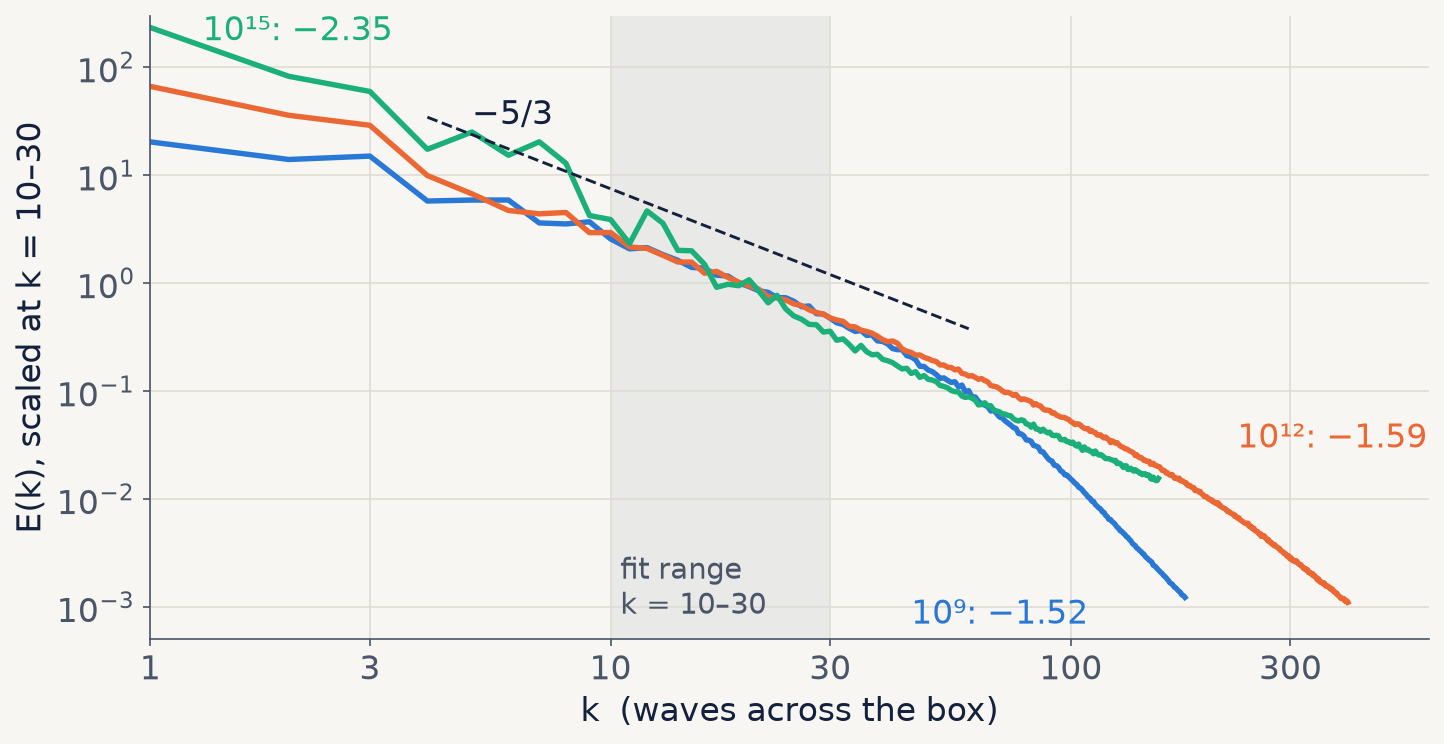
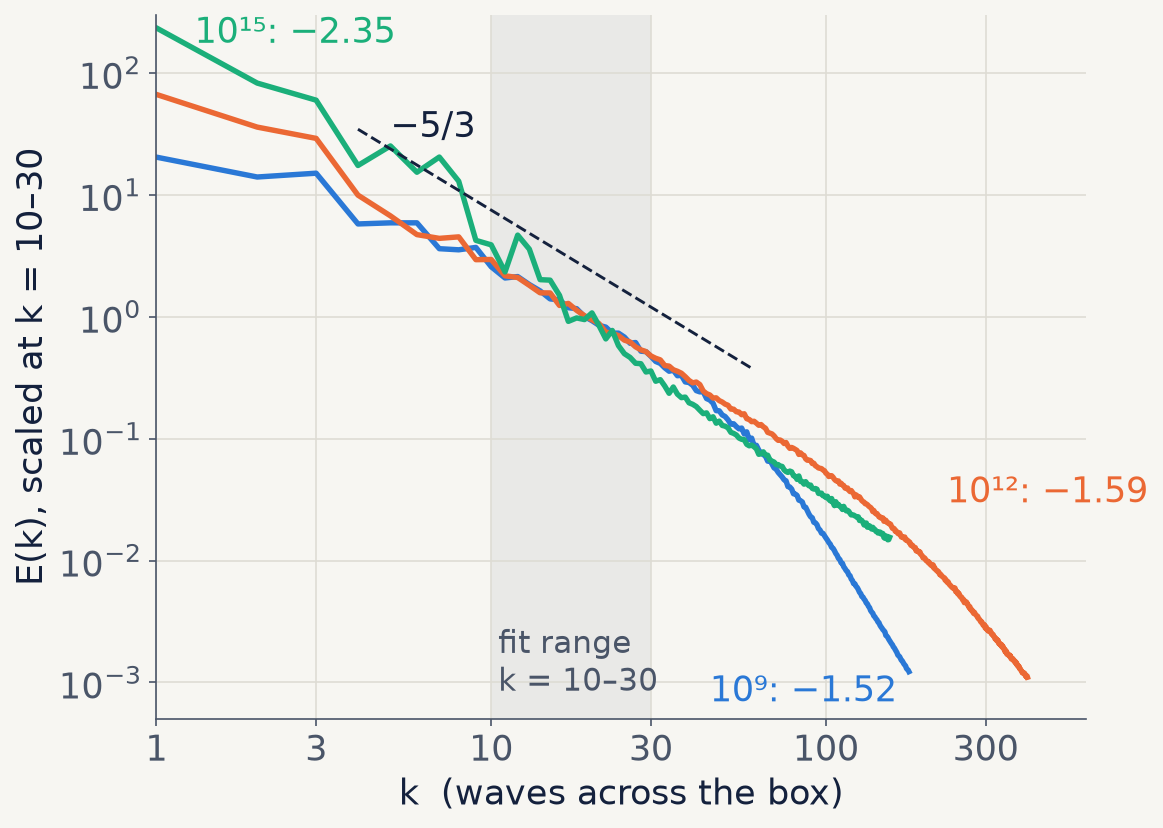
Deck figures: LaTeX equations, taller figures, proper subscripts
Claude-Session: https://claude.ai/code/session_01JtE56N5UP9hCyapB7Ratd6

diff --git a/convection/figures/make_deck_figs.py b/convection/figures/make_deck_figs.py
@@ -21,7 +21,7 @@ COL = {"Ra1e9": "#2a78d6", "Ra1e12": "#eb6834", "Ra1e15": "#1baf7a"}
 LAB = {"Ra1e9": "Ra 10⁹", "Ra1e12": "Ra 10¹²", "Ra1e15": "Ra 10¹⁵"}
 TAGS = ("Ra1e9", "Ra1e12", "Ra1e15")
 OUT = f"{FIGS}/"
-plt.rcParams.update({"font.size": 16, "axes.edgecolor": INK2, "axes.labelcolor": INK, "xtick.color": INK2,
+plt.rcParams.update({"font.size": 17, "axes.edgecolor": INK2, "axes.labelcolor": INK, "xtick.color": INK2,
                      "ytick.color": INK2, "axes.grid": True, "grid.color": GRID, "grid.linewidth": 0.8,
                      "axes.spines.top": False, "axes.spines.right": False, "lines.linewidth": 2.6,
                      "figure.facecolor": BG, "axes.facecolor": BG, "savefig.facecolor": BG, "savefig.bbox": "tight"})
@@ -38,7 +38,7 @@ def log_ticks(ax, xs=None, ys=None):
 
 def spec1d():
     """1D x-FFT, mean over rows and frames (same data and fit as FINAL_RESULTS section 1)."""
-    fig, a = plt.subplots(figsize=(11, 5.4))
+    fig, a = plt.subplots(figsize=(8, 6.1))
     floor = {"Ra1e9": 177, "Ra1e12": 873, "Ra1e15": 155}
     a.axvspan(10, 30, color=INK, alpha=0.06, lw=0)
     for t in TAGS:
@@ -48,11 +48,11 @@ def spec1d():
         a.loglog(k[m], En[m], color=COL[t])
         print(f"1D {t}: slope k=10-30 {slope(E, 10, 30):+.3f}")
     kk = np.array([4, 60.0]); a.loglog(kk, 3 * (kk / 17.3) ** (-5 / 3), color=INK, lw=1.4, ls="--")
-    a.text(5, 3 * (5 / 17.3) ** (-5 / 3) * 1.25, "−5/3", color=INK, fontsize=16)
-    a.text(10.5, 1e-3 * 0.7, "fit range\nk = 10–30", color=INK2, fontsize=14, va="bottom")
-    a.text(45, 7e-4, "10⁹: −1.52", color=COL["Ra1e9"], fontsize=16, ha="left")
-    a.text(230, 3e-2, "10¹²: −1.59", color=COL["Ra1e12"], fontsize=16, ha="left")
-    a.text(1.3, 150, "10¹⁵: −2.35", color=COL["Ra1e15"], fontsize=16, ha="left", va="bottom")
+    a.text(5, 3 * (5 / 17.3) ** (-5 / 3) * 1.25, "−5/3", color=INK, fontsize=17)
+    a.text(10.5, 1e-3 * 0.7, "fit range\nk = 10–30", color=INK2, fontsize=15, va="bottom")
+    a.text(45, 7e-4, "10⁹: −1.52", color=COL["Ra1e9"], fontsize=17, ha="left")
+    a.text(230, 3e-2, "10¹²: −1.59", color=COL["Ra1e12"], fontsize=17, ha="left")
+    a.text(1.3, 150, "10¹⁵: −2.35", color=COL["Ra1e15"], fontsize=17, ha="left", va="bottom")
     a.set_xlim(1, 600); a.set_ylim(5e-4, 300)
     log_ticks(a, xs=[1, 3, 10, 30, 100, 300], ys=[1e-3, 1e-2, 1e-1, 1, 10, 100])
     a.set_xlabel("k  (waves across the box)"); a.set_ylabel("E(k), scaled at k = 10–30")
@@ -61,7 +61,7 @@ def spec1d():
 
 def spec2d():
     """2D FFT shells (x FFT x z sine series), fluctuations only (mean profile removed)."""
-    fig, a = plt.subplots(figsize=(11, 5.4))
+    fig, a = plt.subplots(figsize=(8, 6.1))
     a.axvspan(5, 15, color=INK, alpha=0.06, lw=0)
     sl = {"Ra1e9": "−1.27", "Ra1e12": "−1.62", "Ra1e15": "−2.27"}
     vmax = {"Ra1e9": 40, "Ra1e12": 40, "Ra1e15": 100}
@@ -73,11 +73,11 @@ def spec2d():
         Es = np.exp(np.convolve(np.log(En), [0.5, 0.5], "same")); Es[0] = En[0]   # 2-shell mean, as f31
         a.loglog(K[k], Es, color=COL[t])
         x0, y0 = K[k][-1], Es[-2]
-        dy = {"Ra1e9": 0.55, "Ra1e12": 1.6, "Ra1e15": 1.0}[t]
-        a.text(x0 * 1.08, y0 * dy, f"{LAB[t][3:]}: {sl[t]}", color=COL[t], fontsize=16, va="center")
+        dy = {"Ra1e9": 0.33, "Ra1e12": 1.6, "Ra1e15": 1.0}[t]
+        a.text(x0 * 1.08, y0 * dy, f"{LAB[t][3:]}: {sl[t]}", color=COL[t], fontsize=17, va="center")
     kk = np.array([2.5, 35.0]); a.loglog(kk, 4 * (kk / 8.7) ** (-5 / 3), color=INK, lw=1.4, ls="--")
-    a.text(2.6, 4 * (2.6 / 8.7) ** (-5 / 3) * 1.3, "−5/3", color=INK, fontsize=16)
-    a.text(5.3, 2e-3, "fit range\nK/π = 5–15", color=INK2, fontsize=14, va="bottom")
+    a.text(2.6, 4 * (2.6 / 8.7) ** (-5 / 3) * 1.3, "−5/3", color=INK, fontsize=17)
+    a.text(5.3, 2e-3, "fit range\nK/π = 5–15", color=INK2, fontsize=15, va="bottom")
     a.set_xlim(1, 250); a.set_ylim(1e-3, 300)
     log_ticks(a, xs=[1, 3, 10, 30, 100], ys=[1e-3, 1e-2, 1e-1, 1, 10, 100])
     a.set_xlabel(r"$K/\pi$,   $K = \sqrt{k_x^2 + k_z^2}$"); a.set_ylabel("E(K), scaled at K/π = 5–15")
@@ -85,7 +85,7 @@ def spec2d():
 
 
 def upper():
-    fig, ax = plt.subplots(figsize=(11, 5.4))
+    fig, ax = plt.subplots(figsize=(8, 6.1))
     for t in TAGS:
         r = np.load(f"{CACHE}/analyse4_{t}.npy", allow_pickle=True).item()
         Em = r["E_mean"]; n = np.arange(1, len(Em) + 1)
@@ -94,11 +94,11 @@ def upper():
         ax.loglog(n[k], r["E_mean_pred"][k] / EPS ** 2, color=COL[t], lw=1.6, alpha=0.8)
         rat = np.sqrt(Em[1:10:2] / r["E_mean_pred"][1:10:2]).mean()
         print(f"upper {t}: mean amplitude ratio, even n<=10: {rat:.3f}")
-    ax.text(41, 1.0e-4 * 1.6, "10¹⁵", color=COL["Ra1e15"], fontsize=16, va="center")
-    ax.text(41, 0.75e-4, "10¹²", color=COL["Ra1e12"], fontsize=16, va="center")
-    ax.text(26, 3.5e-7, "10⁹: layers resolved", color=COL["Ra1e9"], fontsize=16, va="center")
-    ax.text(2.1, 1.2e-6, "dots: measured\nlines: jump model, no fitted constant", color=INK, fontsize=15)
-    ax.set_xlim(1.8, 60); ax.set_ylim(2.5e-7, 0.12)
+    ax.text(41, 1.0e-4 * 1.6, "10¹⁵", color=COL["Ra1e15"], fontsize=17, va="center")
+    ax.text(41, 0.75e-4, "10¹²", color=COL["Ra1e12"], fontsize=17, va="center")
+    ax.text(43, 8e-7, "10⁹:\nlayers\nresolved", color=COL["Ra1e9"], fontsize=17, va="center")
+    ax.text(2.1, 1.2e-6, "dots: measured\nlines: jump model, no fitted constant", color=INK, fontsize=16)
+    ax.set_xlim(1.8, 75); ax.set_ylim(2.5e-7, 0.12)
     log_ticks(ax, xs=[2, 4, 10, 20, 40], ys=[1e-6, 1e-5, 1e-4, 1e-3, 1e-2, 1e-1])
     ax.set_xlabel(r"$n$   (vertical wavenumber $k_z = n\pi$, even $n$)"); ax.set_ylabel("mean-profile mode energy / ε²")
     fig.savefig(OUT + "deck_upper.png", dpi=150); plt.close(fig)
@@ -107,13 +107,13 @@ def upper():
 def sound():
     f, kb, S = KW.kw("Ra1e15", "cT")
     Sn = S / np.maximum(S.sum(1, keepdims=True), 1e-300)
-    fig, a = plt.subplots(figsize=(11, 5.4))
+    fig, a = plt.subplots(figsize=(8, 6.1))
     a.pcolormesh(kb, f[1:], np.log10(Sn[:, 1:].T * f[1:, None] + 1e-30), vmin=-5, vmax=-0.5,
                  shading="nearest", cmap="Blues", rasterized=True)
     zg = np.linspace(0, 1, 401); cs = np.sqrt(0.3 * (1 - 0.5 * zg) / (0.5 * 0.1))
     c_eff = 1 / np.mean(1 / cs)
     a.plot(kb, c_eff * kb / 2, color=COL["Ra1e12"], lw=2.4, ls="--")
-    a.text(52, 40, f"dashed: ω = cK\nc = {c_eff:.2f} (ideal gas, no fit)\ndark = more power", color=INK, fontsize=16,
+    a.text(52, 2.5, f"dashed: ω = cK\nc = {c_eff:.2f}, ideal gas,\nno fit\ndark = more power", color=INK, fontsize=17,
            bbox=dict(facecolor=BG, edgecolor="none", alpha=0.92, pad=6))
     a.set_ylim(0, 50); a.set_xlim(1, 90); a.grid(False)
     a.set_xlabel(r"$K/\pi$   (2D shell)"); a.set_ylabel("frequency f  (1 / time unit)")

diff --git a/convection/figures/make_deck_math.py b/convection/figures/make_deck_math.py
@@ -1,0 +1,56 @@
+"""Typeset the deck's equations with LaTeX (Computer Modern, amsmath) as transparent PNGs: slides_figs/eq_<name>.png.
+Rendered at 2x; the slide shows each at half its pixel size. Prints name, width, height (display px).
+Run from P05_code/:  python -m convection.figures.make_deck_math
+"""
+from convection.config import FIGS
+import matplotlib
+matplotlib.use("Agg")
+import matplotlib.pyplot as plt
+
+INK = "#14213D"
+plt.rcParams.update({"text.usetex": True, "font.family": "serif",
+                     "text.latex.preamble": r"\usepackage{amsmath}\usepackage{amssymb}\usepackage{bm}"})
+OUT = f"{FIGS}/"
+
+EQ = {
+    # slide 1: 1D spectrum
+    "lut": r"$\theta(x,z) = T - T_A = -0.1 + 0.1\,P\!\left(Y(x,z)\right)$",
+    "fft": r"$\hat{T}(k,z) = \frac{1}{N_x}\sum_{j=0}^{N_x-1} T(x_j,z)\,e^{-2\pi i\,k x_j/L}$",
+    "avg": r"$E(k) = \left\langle\, |\hat{T}(k,z,t)|^2 \,\right\rangle_{z,\,t}$",
+    "fit": r"$\log E = \log A - \alpha \log k, \qquad 10 \leq k \leq 30$",
+    # slide 2: 2D spectrum
+    "zero": r"$\begin{aligned}\theta'(x,z) &= T - (1 - Dz) + \varepsilon z\\ \theta'(x,0) &= \theta'(x,1) = 0\end{aligned}$",
+    "sine": r"$\begin{aligned}\theta'(x,z) &= \sum_{m,n} \hat{\theta}(m,n)\; e^{\,i k_x x} \sin(k_z z)\\ k_x &= \frac{2\pi m}{L}, \qquad k_z = n\pi\end{aligned}$",
+    "shell": r"$\begin{aligned}E(K) &= \sum_{K-\frac{1}{2}\,\le\, |\mathbf{k}|/\pi \,<\, K+\frac{1}{2}} \tfrac{1}{2}|\hat{\theta}(m,n)|^2\\ |\mathbf{k}| &= \sqrt{k_x^2 + k_z^2}\end{aligned}$",
+    "fit2": r"$E(K) \propto K^{-\alpha}, \qquad 5 \leq K/\pi \leq 15$",
+    # slide 3: entropy and density split
+    "prob": r"$p_k = \frac{E(k)}{\sum_{k'} E(k')}$",
+    "ent": r"$S = -\sum_{k=1}^{150} p_k \log_2 p_k, \qquad 0 \leq S \leq \log_2 150 = 7.2$",
+    "split": r"$\ln T = \underbrace{\frac{1}{\gamma}\,\frac{s}{c_v}}_{\Sigma\ \mathrm{(entropy)}} + \underbrace{\frac{\gamma-1}{\gamma}\,\ln p}_{\Pi\ \mathrm{(pressure)}}, \qquad p = \rho T$",
+    "share": r"$\mathrm{share} = \frac{\mathrm{var}\,\Pi}{\mathrm{var}\,\Sigma + \mathrm{var}\,\Pi}$",
+    # slide 4: mean profile
+    "mean": r"$\Theta(z) = \left\langle\, \theta'(x,z,t) \,\right\rangle_{x,\,t}$",
+    "modes": r"$\hat{\Theta}_n = 2\int_0^1 \Theta(z)\,\sin(n\pi z)\,dz, \qquad E_n = \frac{1}{2}\hat{\Theta}_n^{\,2}$",
+    "jump": r"$\begin{aligned}\hat{\Theta}_n &= \frac{2}{n\pi}\left[J_0 - (-1)^n J_1\right]\\ E_n &= \frac{2}{(n\pi)^2}\left[J_0 - (-1)^n J_1\right]^2 \;\propto\; n^{-2}\end{aligned}$",
+    "ratio": r"$\mathrm{ratio} = \sqrt{E_n^{\,\mathrm{measured}} \,/\, E_n^{\,\mathrm{model}}}$",
+    # slide 5: sound
+    "series": r"$\hat{\theta}(m,n,t_j), \qquad t_j = j\,\Delta t, \qquad \Delta t = 0.01$",
+    "tfft": r"$P(K,f) = \sum_{|\mathbf{k}|\,\in\,K} \left|\, \sum_j w_j\, \hat{\theta}(m,n,t_j)\, e^{-2\pi i f t_j} \right|^2$",
+    "ridge": r"$\omega = 2\pi f = c\,|\mathbf{k}|$",
+    "cs": r"$\begin{aligned}c_s(z) &= \sqrt{\frac{(\gamma-1)\,T_A(z)}{D\,\varepsilon}}\\ \bar{c} &= \left[\int_0^1 \frac{dz}{c_s(z)}\right]^{-1} = 2.09\end{aligned}$",
+}
+
+
+def render(name, tex, size=27):
+    fig = plt.figure(figsize=(0.01, 0.01))
+    fig.text(0, 0, tex.replace("$", "$\\displaystyle ", 1), fontsize=size, color=INK)
+    fig.savefig(OUT + f"eq_{name}.png", dpi=200, transparent=True, bbox_inches="tight", pad_inches=0.04)
+    plt.close(fig)
+
+
+if __name__ == "__main__":
+    from PIL import Image
+    for k, v in EQ.items():
+        render(k, v)
+        w, h = Image.open(OUT + f"eq_{k}.png").size
+        print(f"{k} {w // 2} {h // 2}")
